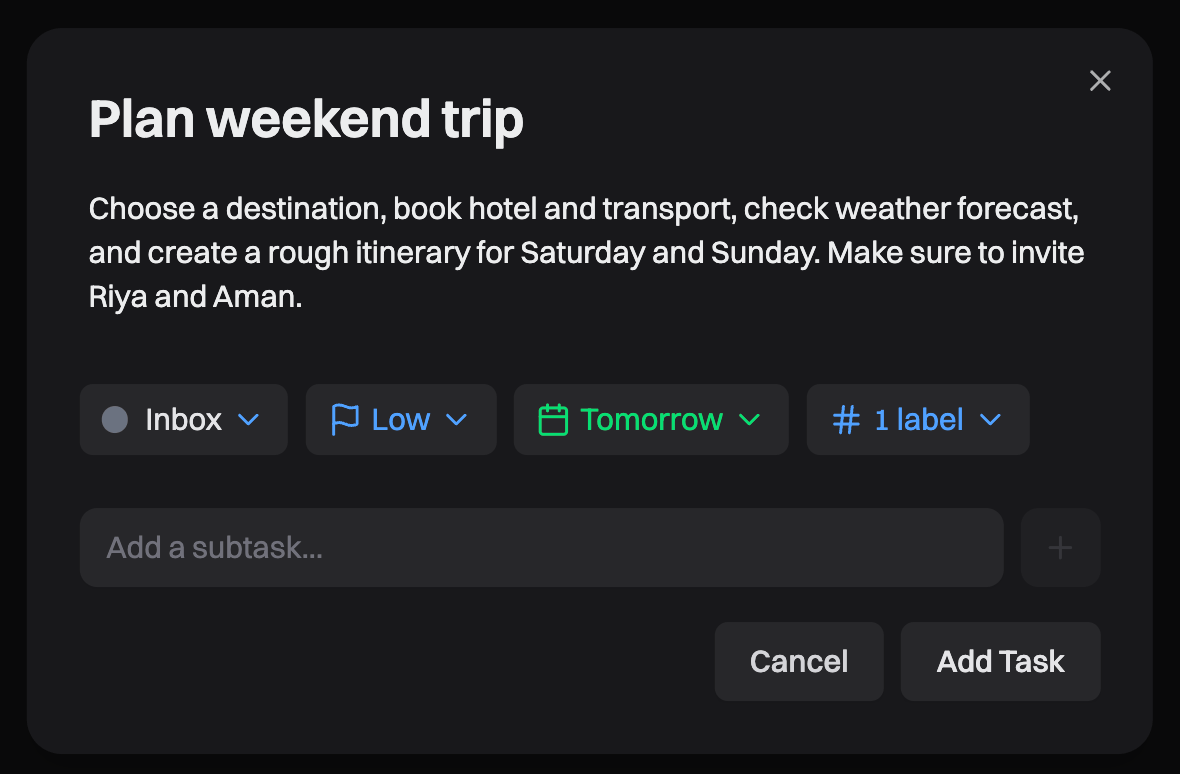
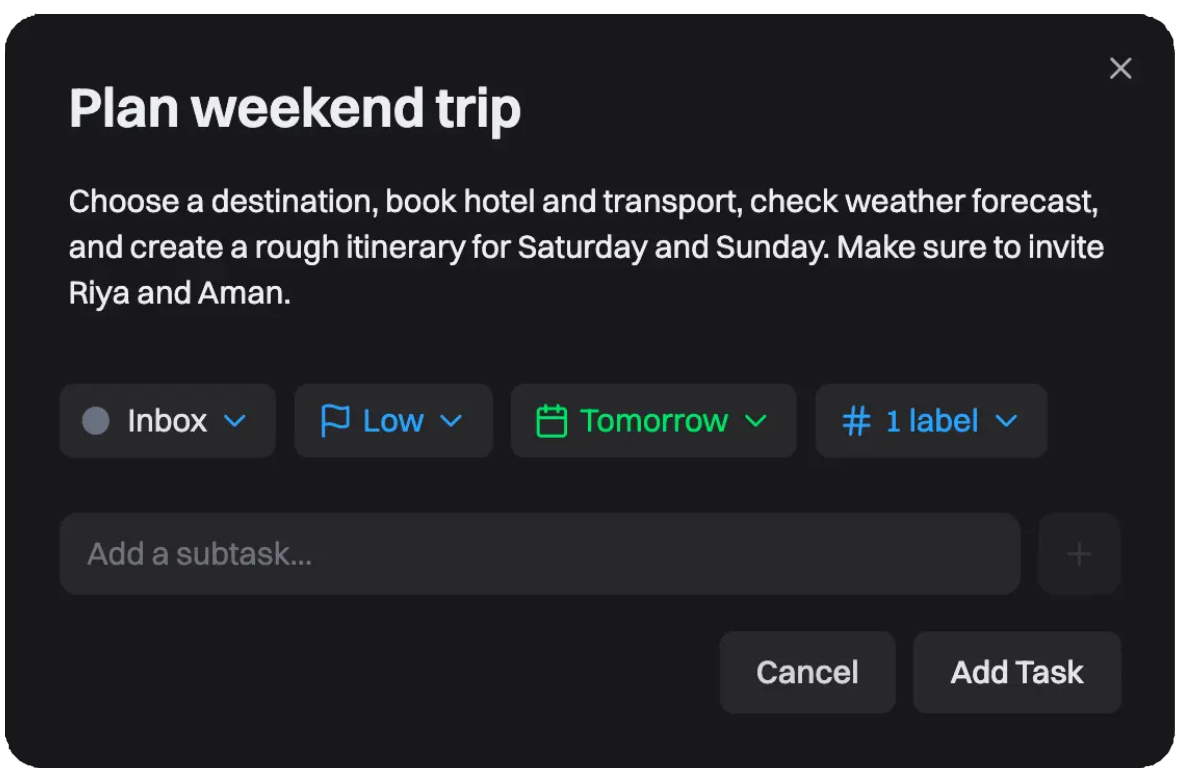
feat: add shadow effect to Todo component image and update FeatureCard image class for consistency

diff --git a/src/features/landing/components/sections/new/Todo.tsx b/src/features/landing/components/sections/new/Todo.tsx
@@ -106,6 +106,7 @@ export default function Todo() {
           imageSrc="/landing/todo/2.png"
           title="Organize Your Tasks"
           description="Sort tasks by priority, labels, and projects"
+          imageClassName="shadow-sm object-cover"
           small
         />
       </div>

diff --git a/src/features/landing/components/shared/FeatureCard.tsx b/src/features/landing/components/shared/FeatureCard.tsx
@@ -39,7 +39,7 @@ export function FeatureCard({
           <Image
             fill
             src={imageSrc}
-            className={`${imageClassName}`}
+            className={`${imageClassName} `}
             alt={imageAlt}
           />
         </div>
